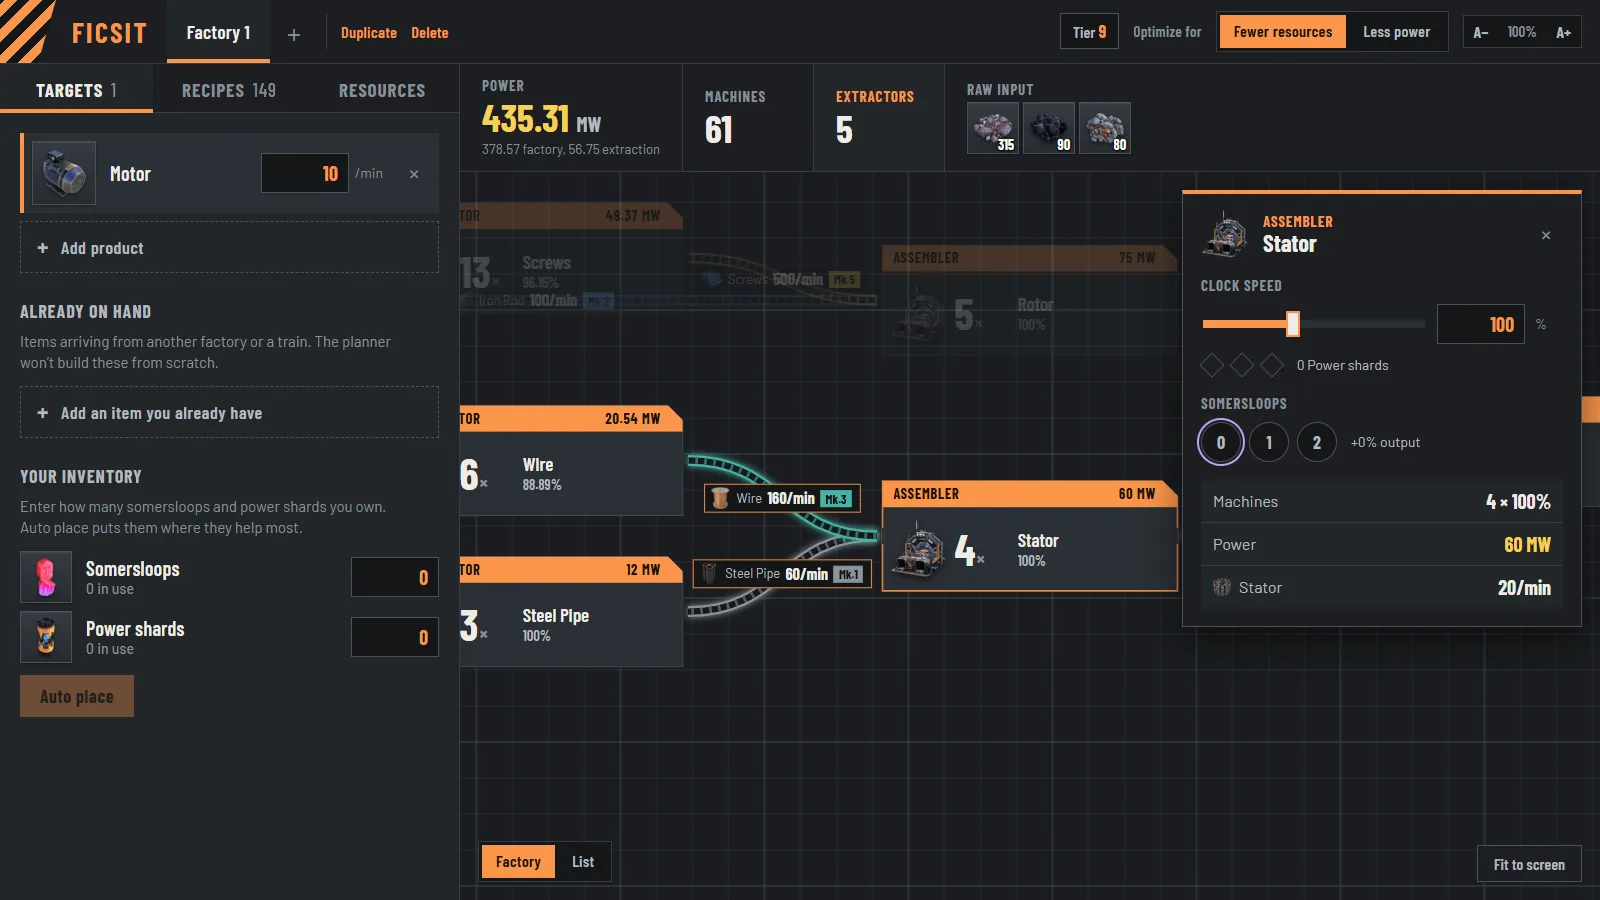
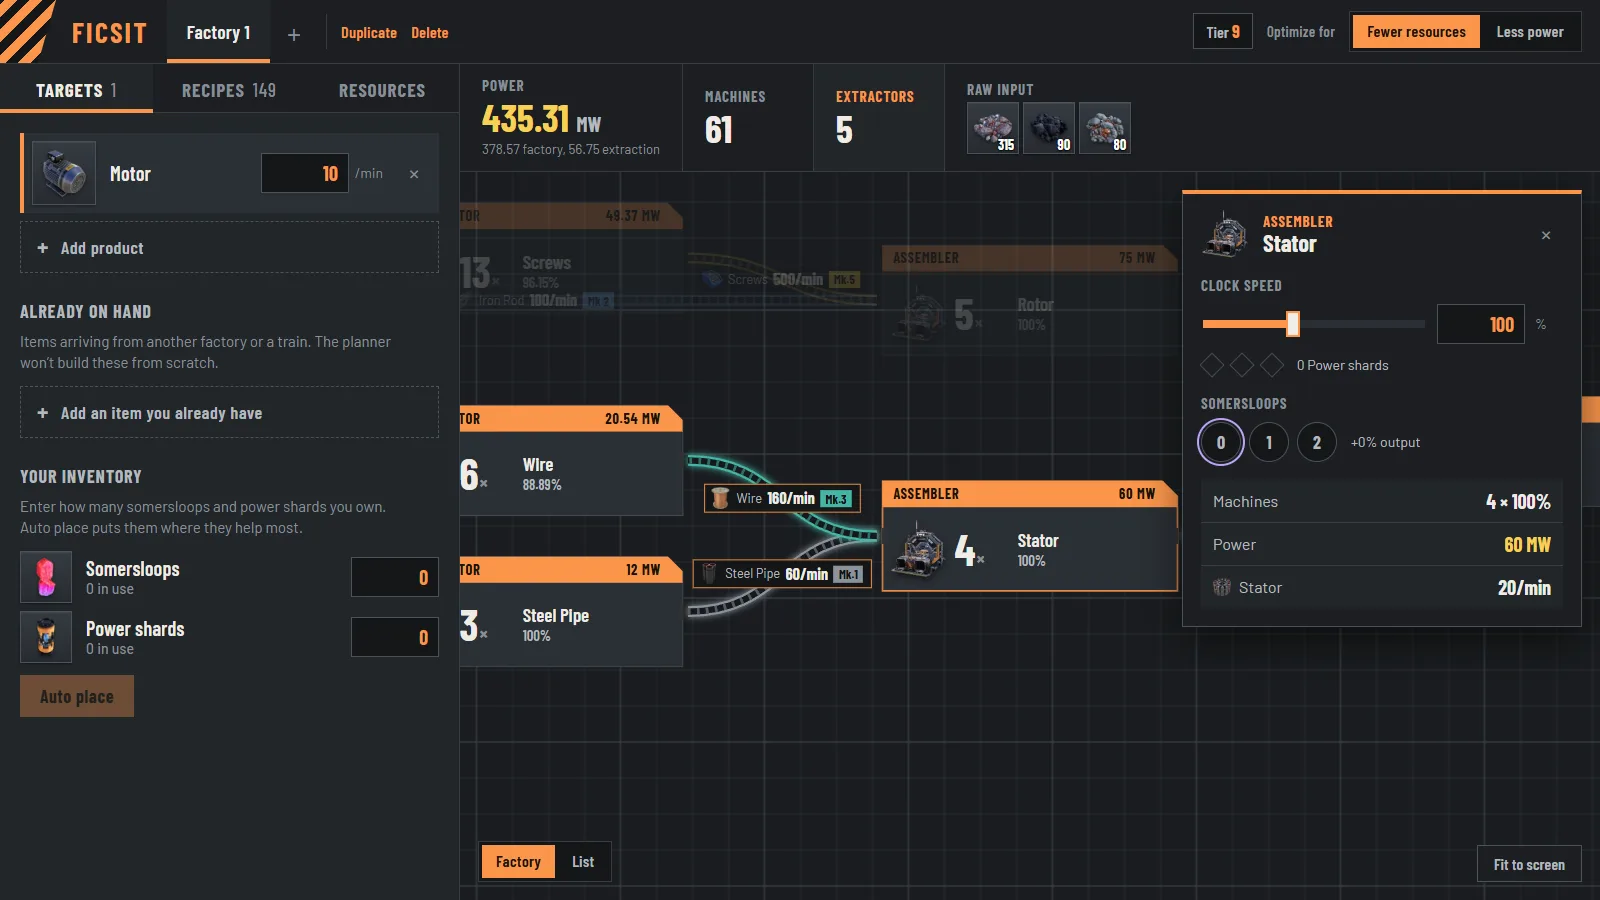
Drop the UI size buttons in favour of browser zoom
CSS zoom made dragged graph nodes drift from the pointer by the zoom factor. Browser zoom
(Ctrl +/-, pinch) scales everything correctly, so the in-app control goes.

diff --git a/src/store.ts b/src/store.ts
@@ -42,8 +42,6 @@ export const newPlan = (name: string): Plan => ({
 
 interface State {
   lang: Lang;
-  /** Whole-UI zoom, 1 = 100%. */
-  scale: number;
   /** Highest milestone tier the player has unlocked in their save. Recipes and buildings above it sit out. */
   tier: number;
   /** Whether the first-run "where are you in the game" question was answered. */
@@ -62,9 +60,7 @@ interface State {
   renaming?: string;
 
   set: (
-    patch: Partial<
-      Pick<State, 'lang' | 'scale' | 'tier' | 'onboarded' | 'inventory' | 'view' | 'tab' | 'active' | 'inspect' | 'pane' | 'renaming'>
-    >,
+    patch: Partial<Pick<State, 'lang' | 'tier' | 'onboarded' | 'inventory' | 'view' | 'tab' | 'active' | 'inspect' | 'pane' | 'renaming'>>,
   ) => void;
   setFixed: (item: string, rate: number | undefined) => void;
   updatePlan: (patch: Partial<Plan> | ((p: Plan) => Partial<Plan>)) => void;
@@ -95,7 +91,6 @@ export const useStore = create<State>()(
 
       return {
         lang: 'en',
-        scale: 1,
         tier: MAX_TIER,
         onboarded: false,
         inventory: { sloops: 0, shards: 0 },
@@ -179,7 +174,6 @@ export const useStore = create<State>()(
       version: 2,
       partialize: (s) => ({
         lang: s.lang,
-        scale: s.scale,
         tier: s.tier,
         onboarded: s.onboarded,
         inventory: s.inventory,
@@ -194,7 +188,7 @@ export const useStore = create<State>()(
   ),
 );
 
-type Persisted = Partial<Pick<State, 'lang' | 'scale' | 'tier' | 'onboarded' | 'inventory' | 'view' | 'tab' | 'plans' | 'active'>>;
+type Persisted = Partial<Pick<State, 'lang' | 'tier' | 'onboarded' | 'inventory' | 'view' | 'tab' | 'plans' | 'active'>>;
 
 export function migrateState(persisted: unknown, version: number): Persisted {
   const old = persisted as Record<string, unknown>;

diff --git a/src/App.tsx b/src/App.tsx
@@ -19,9 +19,6 @@ import type { SolveResult } from './lib/solver';
 import { solveAsync } from './lib/solverClient';
 import { failureText, type SolveFailure } from './lib/solveFailure';
 import { usePlan, useStore } from './store';
-import { applyScale } from './lib/zoom';
-
-const SCALES = [0.9, 1, 1.1, 1.25, 1.4];
 
 function useSolution() {
   const plan = usePlan();
@@ -79,11 +76,6 @@ export default function App() {
     document.documentElement.lang = lang;
   }, [lang]);
 
-  useEffect(() => {
-    applyScale(s.scale);
-  }, [s.scale]);
-
-  const scaleIndex = Math.max(0, SCALES.indexOf(s.scale));
   const [tierOpen, setTierOpen] = useState(false);
   const [menuOpen, setMenuOpen] = useState(false);
 
@@ -108,20 +100,6 @@ export default function App() {
           </button>
           <span className="control-label">{t('objective')}</span>
           <ObjectiveSwitch />
-          <div className="scale" role="group" aria-label={t('uiSize')}>
-            <button type="button" aria-label="-" disabled={scaleIndex === 0} onClick={() => s.set({ scale: SCALES[scaleIndex - 1] })}>
-              A−
-            </button>
-            <span>{Math.round(s.scale * 100)}%</span>
-            <button
-              type="button"
-              aria-label="+"
-              disabled={scaleIndex === SCALES.length - 1}
-              onClick={() => s.set({ scale: SCALES[scaleIndex + 1] })}
-            >
-              A+
-            </button>
-          </div>
         </div>
         <button type="button" className="menu-button" aria-label={t('menu')} onClick={() => setMenuOpen(true)}>
           ⋯

diff --git a/src/styles.css b/src/styles.css
@@ -257,32 +257,6 @@ button:disabled {
   color: var(--ficsit-ink);
 }
 
-.scale {
-  display: flex;
-  align-items: center;
-  border: 1px solid var(--line);
-  background: var(--bg);
-}
-
-.scale button {
-  border: 0;
-  background: transparent;
-  padding: 6px 10px;
-  font: 700 16px var(--font-display);
-  color: var(--dim);
-}
-
-.scale button:not(:disabled):hover {
-  color: var(--ficsit);
-}
-
-.scale span {
-  min-width: 3.2em;
-  text-align: center;
-  font: 600 15px var(--font-display);
-  color: var(--faint);
-}
-
 .text-button {
   border: 0;
   padding: 2px 0;
@@ -2127,7 +2101,6 @@ button.slot:hover {
   }
 
   .topbar-controls .control-label,
-  .scale,
   .floor-hint {
     display: none;
   }
@@ -2462,7 +2435,6 @@ button.slot:hover {
 /* Touch screens: finger-sized targets. */
 @media (pointer: coarse) {
   .segmented button,
-  .scale button,
   .tier-button,
   .install-button,
   .floor-button,

diff --git a/src/locales/en.ts b/src/locales/en.ts
@@ -75,7 +75,6 @@ export const en = {
   quickPickHint: 'Pick one, then adjust the rate under Targets. Anything else is under Add product.',
   projectParts: 'Space Elevator parts',
   commonParts: 'Common parts',
-  uiSize: 'Size',
   seconds: 's',
   pinInput: 'Amount you have',
   pinHint: 'Enter what you have; the factory scales to it',

diff --git a/README.md b/README.md
@@ -62,6 +62,8 @@ and works without a network. There's nothing to download and run. It works on ph
 After the first visit everything is cached, including the solver and all icons. The planner then works without a
 network. Updates install on their own the next time you open it, and your factories stay saved in the browser.
 
+To make everything bigger or smaller, use the browser's zoom (Ctrl + / Ctrl −, or pinch on a touch screen).
+
 ## Development
 
 Needs [Bun](https://bun.sh).
